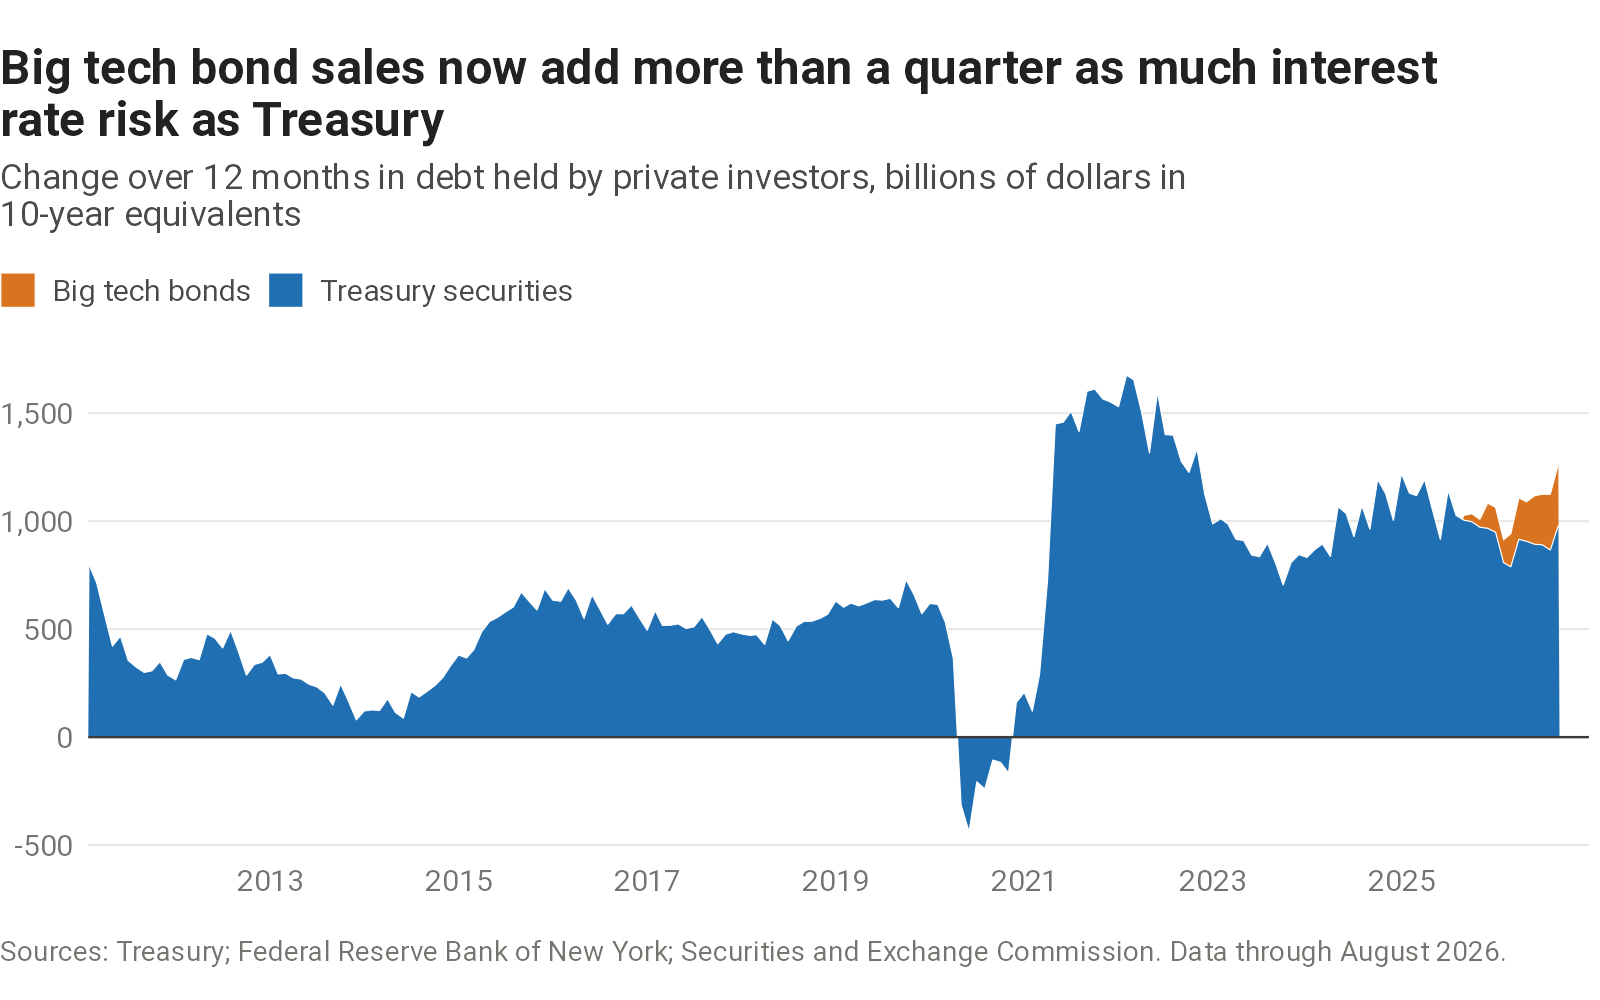
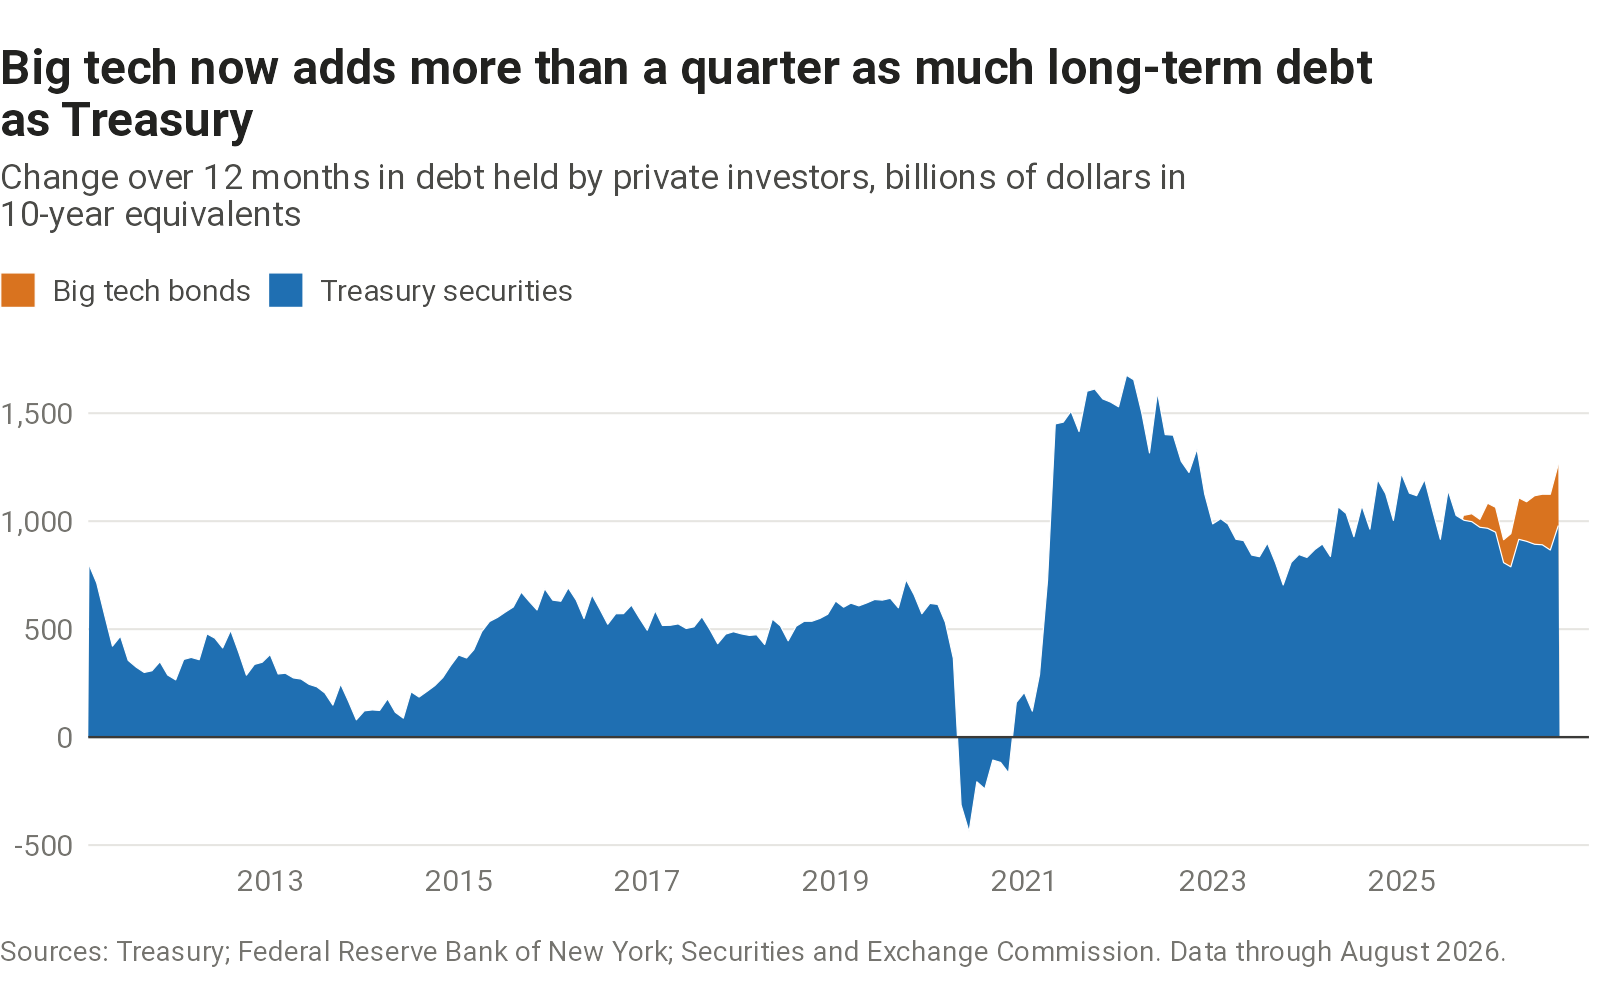
Retitle the big tech bonds chart and define 10-year equivalents in its text
Claude-Session: https://claude.ai/code/session_01C4kQtTHdakDNHHerQuEFwM

Changed region(s): [[0.0, 0.031, 0.9062, 0.155]]

diff --git a/charts/duration-supply/output/duration-supply-lead.md b/charts/duration-supply/output/duration-supply-lead.md
@@ -1,1 +1,1 @@
-Treasury is not adding more long-term debt for private investors to absorb than it was a year ago; big tech borrowing is the new source. In the 12 months to August 2026, Treasury securities added $980 billion in 10-year equivalents to private holdings, compared with $1,004 billion a year earlier and a peak of $1,221 billion in December 2024. Bonds sold by Alphabet, Amazon, Meta, and Oracle added $284 billion, 29 percent as much. That understates big tech's borrowing, since it leaves out private placements such as the financing for Meta's Hyperion data center.
+Big tech companies have become a significant new source of long-term debt for investors to absorb, while Treasury's contribution has not grown. Measured in 10-year equivalents—the amount of 10-year notes that would carry the same risk from changes in interest rates—Treasury added $980 billion to private holdings in the 12 months to August 2026. That compares with $1,004 billion a year earlier and a peak of $1,221 billion in December 2024. Bonds sold by Alphabet, Amazon, Meta, and Oracle added $284 billion, 29 percent as much as Treasury. That leaves out private placements, such as the financing for Meta's Hyperion data center, so it understates big tech's borrowing.

diff --git a/charts/duration-supply/spec.md b/charts/duration-supply/spec.md
@@ -74,3 +74,4 @@ Valuation choice: priced at each month's own yields, our Treasury series swings 
 - 2026-09-26: Value every month on the latest yield curve, so the series reflects what was issued rather than yield swings.
 - 2026-09-26: Dollar bonds only, since the question is the U.S. market.
 - 2026-09-26: Title: "Big tech bond sales now add more than a quarter as much interest rate risk as Treasury." The ratio is 29 percent in August 2026; revisit on refresh.
+- 2026-09-26: Title: "Big tech now adds more than a quarter as much long-term debt as Treasury," dropping "interest rate risk," which general readers don't know. The text defines 10-year equivalents in plain words. The ratio is 29 percent in August 2026; revisit on refresh.
